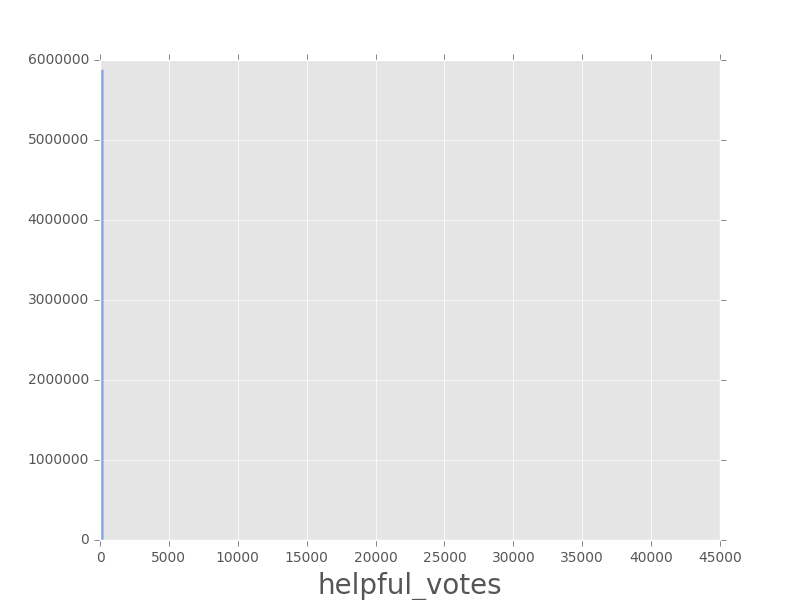
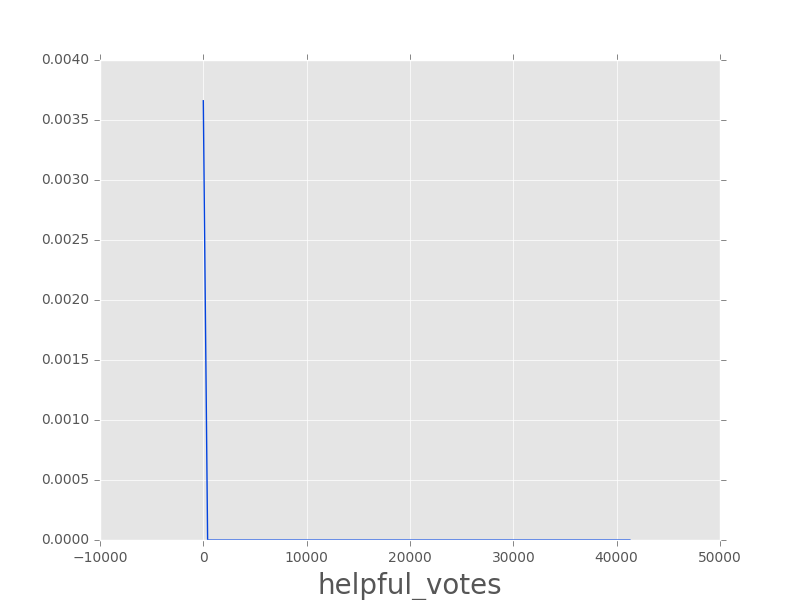
update Hists and Results again 3

diff --git a/Hists_votes_dist.py b/Hists_votes_dist.py
@@ -79,7 +79,7 @@ print("star_rating complete")
 temp_votes = cover#.loc[lambda cover: cover['helpful_votes'] != 0]
 
 plt.figure(figsize=(8,6))
-ax = sns.distplot(temp_votes['helpful_votes'], color=color, kde=False, bins=150)
+ax = sns.distplot(temp_votes['helpful_votes'], color=color, hist=False)
 ax.yaxis.label.set_size(20)
 ax.xaxis.label.set_size(20)
 #plt.show()
@@ -90,7 +90,7 @@ print("helpful_votes complete")
 temp_votes = cover#.loc[lambda cover: cover['total_votes'] != 0]
 
 plt.figure(figsize=(8,6))
-ax = sns.distplot(temp_votes['total_votes'], color=color, kde=False, bins=150)
+ax = sns.distplot(temp_votes['total_votes'], color=color, hist=False)
 ax.yaxis.label.set_size(20)
 ax.xaxis.label.set_size(20)
 #plt.show()
